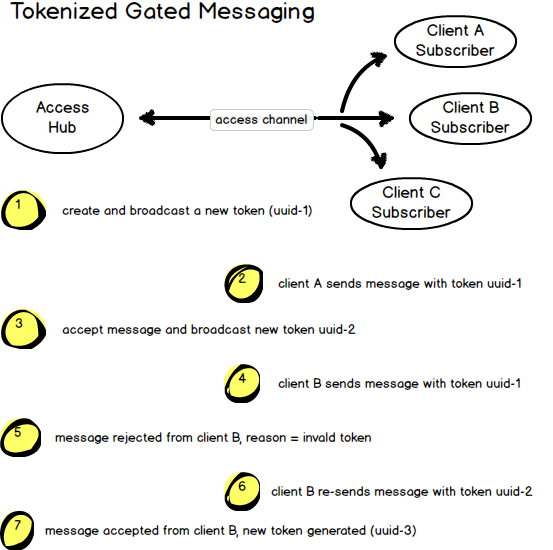
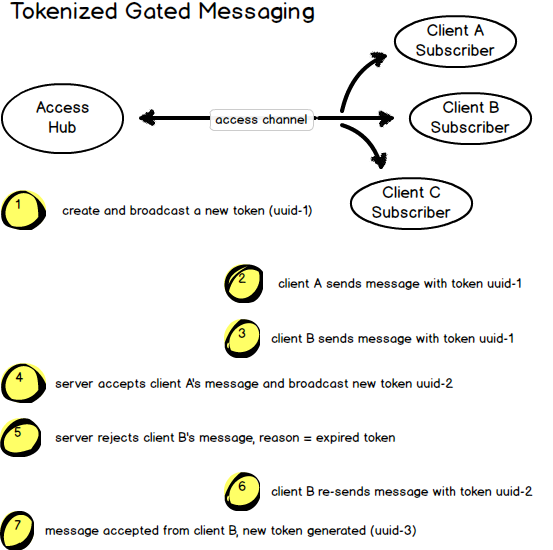
updated diagram

Changed region(s): [[0.0, 0.5564, 0.953, 0.7418], [0.0922, 0.7727, 0.7071, 0.8036]]

diff --git a/_drafts/tokenized-gated-messaging.md b/_drafts/tokenized-gated-messaging.md
@@ -7,26 +7,31 @@ My friend and colleague [David Flajoe](https://www.linkedin.com/in/davidflajole)
 
 ## A simple example: Multi-user Bidding
 
-The bidding site uses gated messages to control who among many potential bidders is grated the current bid.  A token is generated and broadcast to the group.   The first bidder to accept sends an "accept" message along with the token.  If the token matches the current token, then the bid is awarded to that person and the new token is re-generated and broadcast.  If a second bidder attempts to claim the bid, their request is rejected.
+A multi-user bidding site uses gated messages to control who among many potential bidders is grated the current bid.  A token is generated and broadcast to the group. The first bidder to accept sends an "accept" message along with the token.  If the token matches the current token, then the bid is awarded to that person and the new token is re-generated and broadcast.  If a second bidder attempts to claim the bid, their request is rejected.
+
+The following diagram demonstrates the message flow...
+
+![]({{site.url}}/images/tokenized-gated-messages.png)
 
 ## Other applications
 
-Tokenized gating has other applications as well.  Short lived, single use tokens can be combined with other values to create a non-repeatable hash.  For example, a password combined with an access token plus known key can be used to generate a hash like this:
+Tokenized gating has other applications as well.  Short lived, single use tokens can be combined with other values to create a non-repeatable hash.  For example, a password combined with a session key plus access token can be used to generate a hash like this:
 
 ~~~
 	pwhash = encode( password  + salt )
 	hash = encode( session key + access token + pwhash )
 ~~~
 
-Where the session key is known to the host and client (not other clients), the access token is the current gating token, and the password entered by the user plus salt is encoded using some algorithm (sha, md5, etc).
+Where...
 
-The hash is transmitted to the access hub where a lookup is done to find the session and encoded password, based on user profile.  The server side uses the same formula to generate a hash and compare to what was sent.  At the same time, a new access token is generated and broadcast to the group.  
+- the session key is known to the host and client (not other clients), 
+- the access token is the current gating token, 
+- and the password entered by the user plus salt is encoded using some algorithm.
 
-This application isn't using gating as much as the short life of the broadcasted token to insure that the message cannot be re-sent.  So, the server hub would probably regenerate new access tokens at random periods, say every 100 to 300 milliseconds.
+The hash is transmitted to the access hub where a lookup is done to find the session and encoded password, based on user profile.  The server side then uses the same formula to generate a hash and compare to what was sent.  At the same time, a new access token is generated and broadcast to the group.
 
-## Timing Diagram
+This application doesn't use gating as much as the short life of the broadcasted token to insure that the message cannot be re-sent.  So, the server hub would probably regenerate new access tokens at random periods, say every 100 to 300 milliseconds.
 
-![]({{site.url}}/images/tokenized-gated-messages.png)
 
 ## Websocket Implementation
 
@@ -35,5 +40,7 @@ There is a websocket implementation of this on [github](https://github.com/darry
 ~~~
 	npm install websocket-access-service --save
 ~~~
+
+It offers a alternative to standard request/response access methods.
 
 
